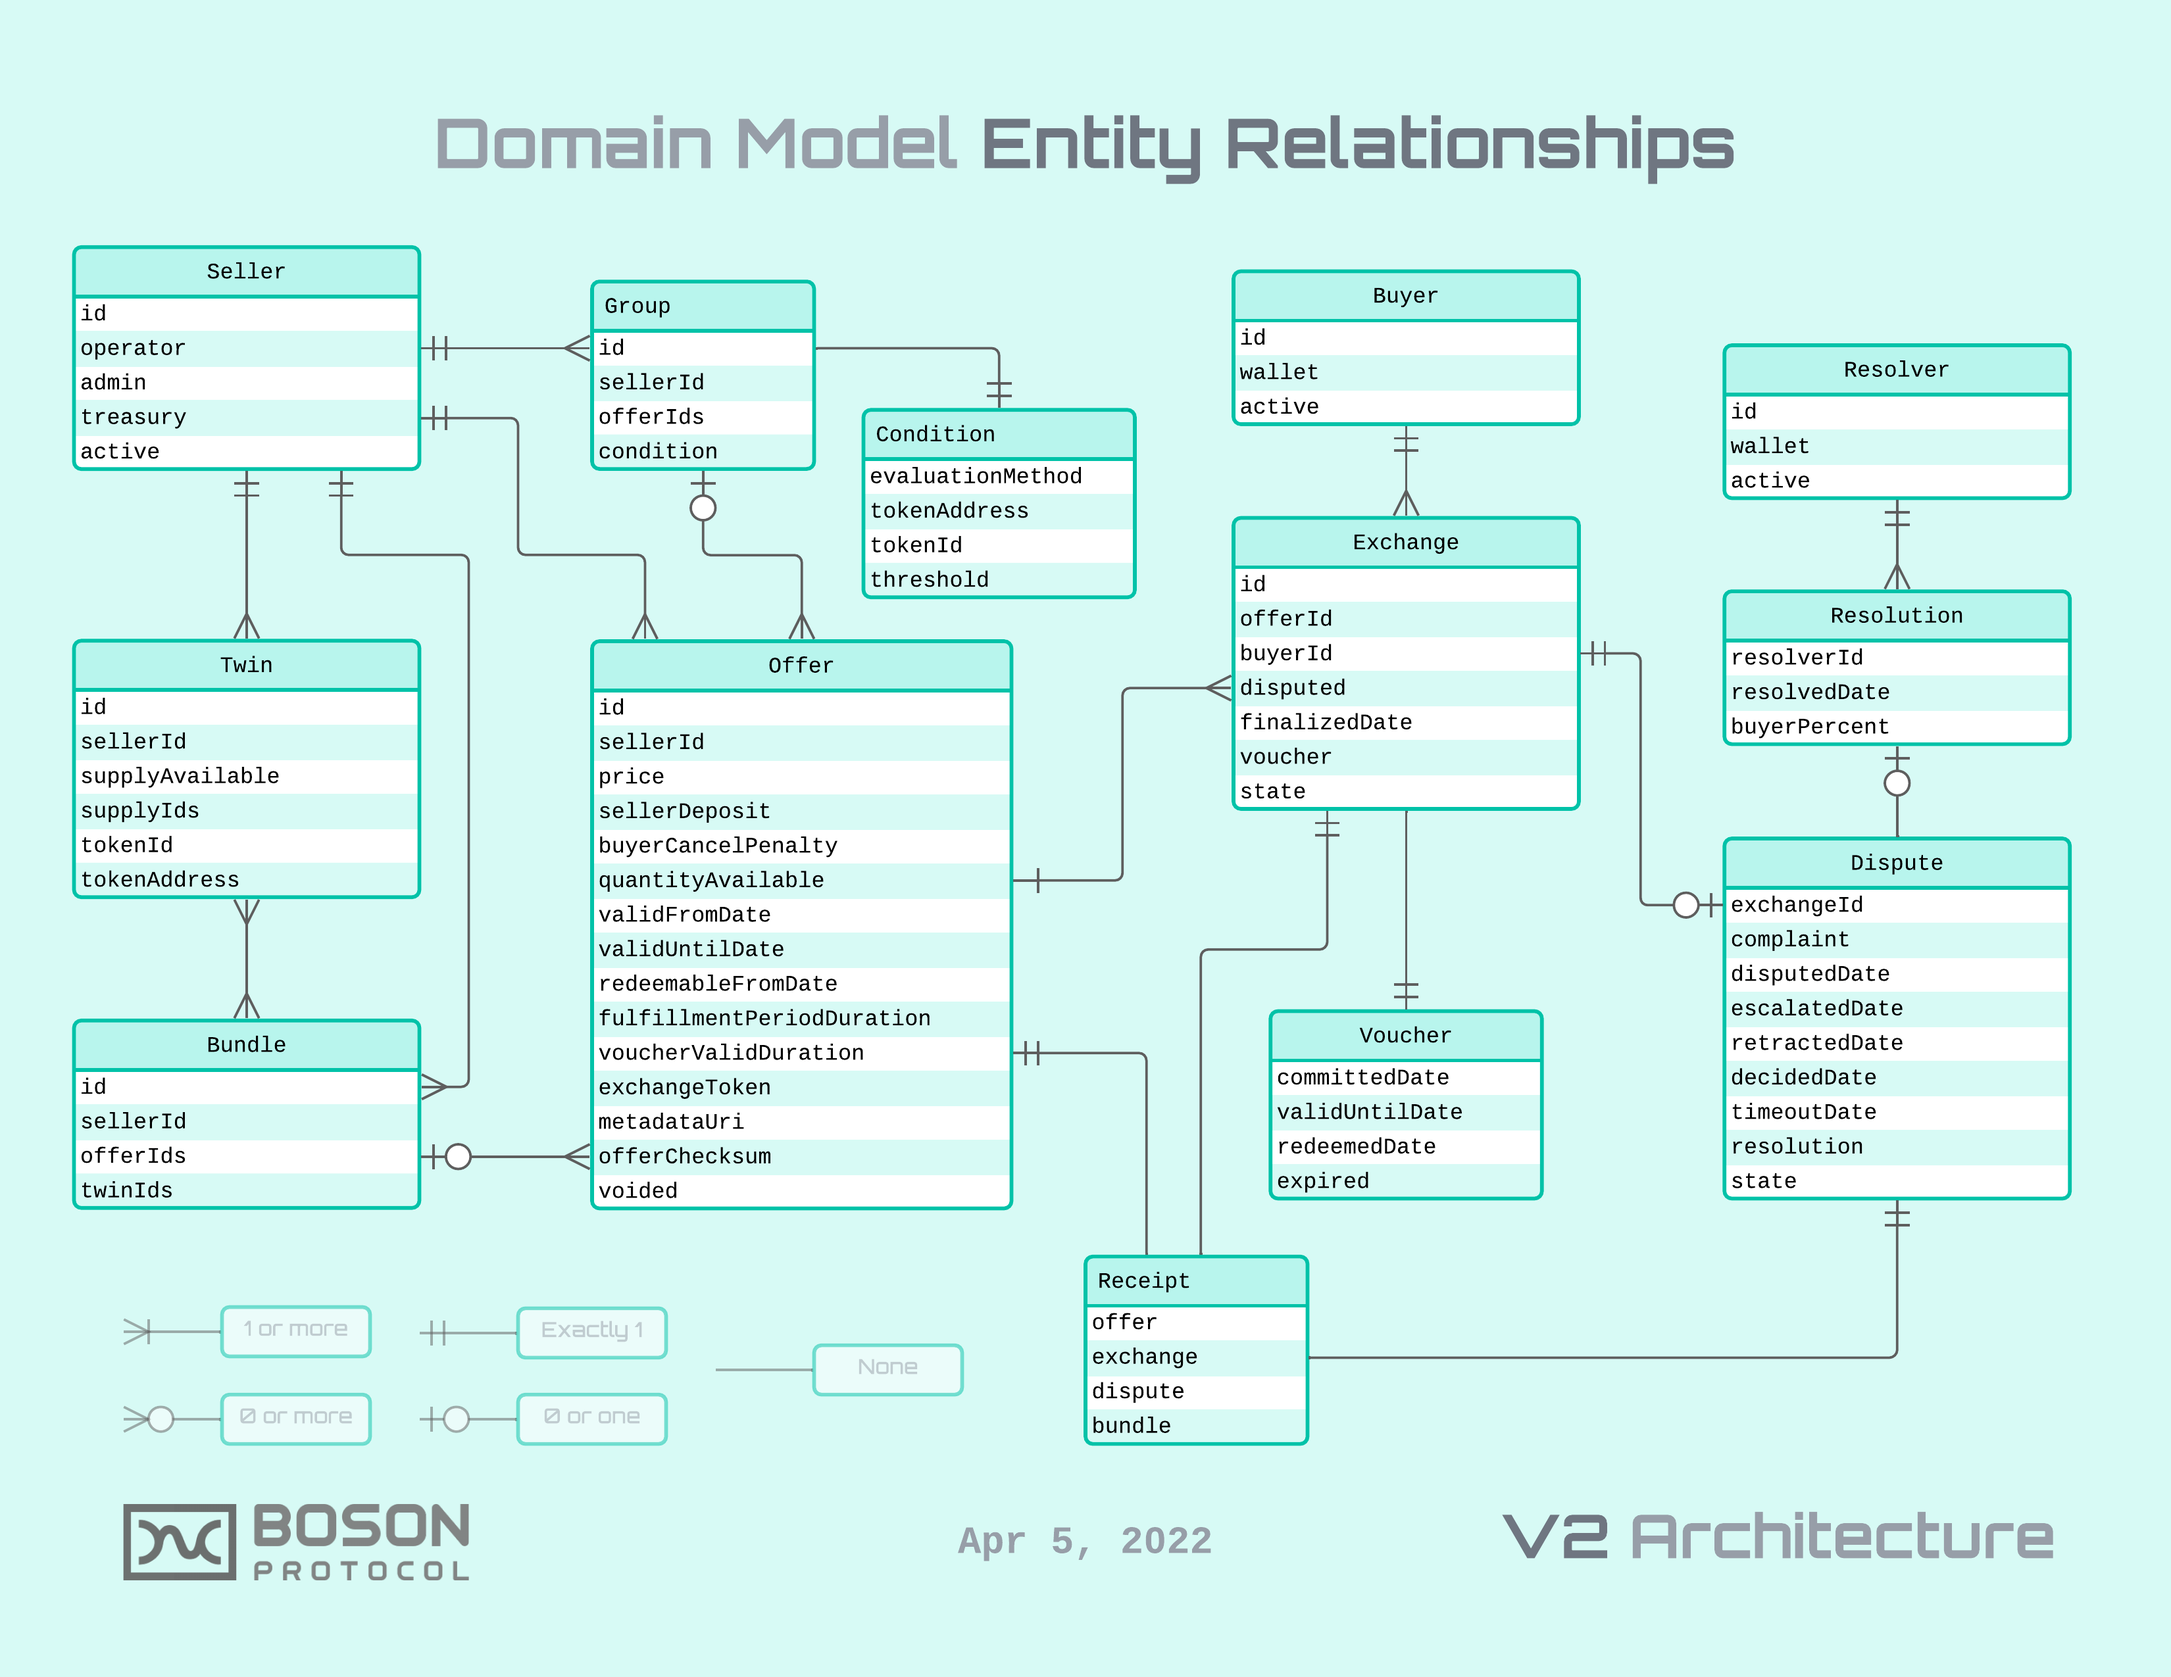
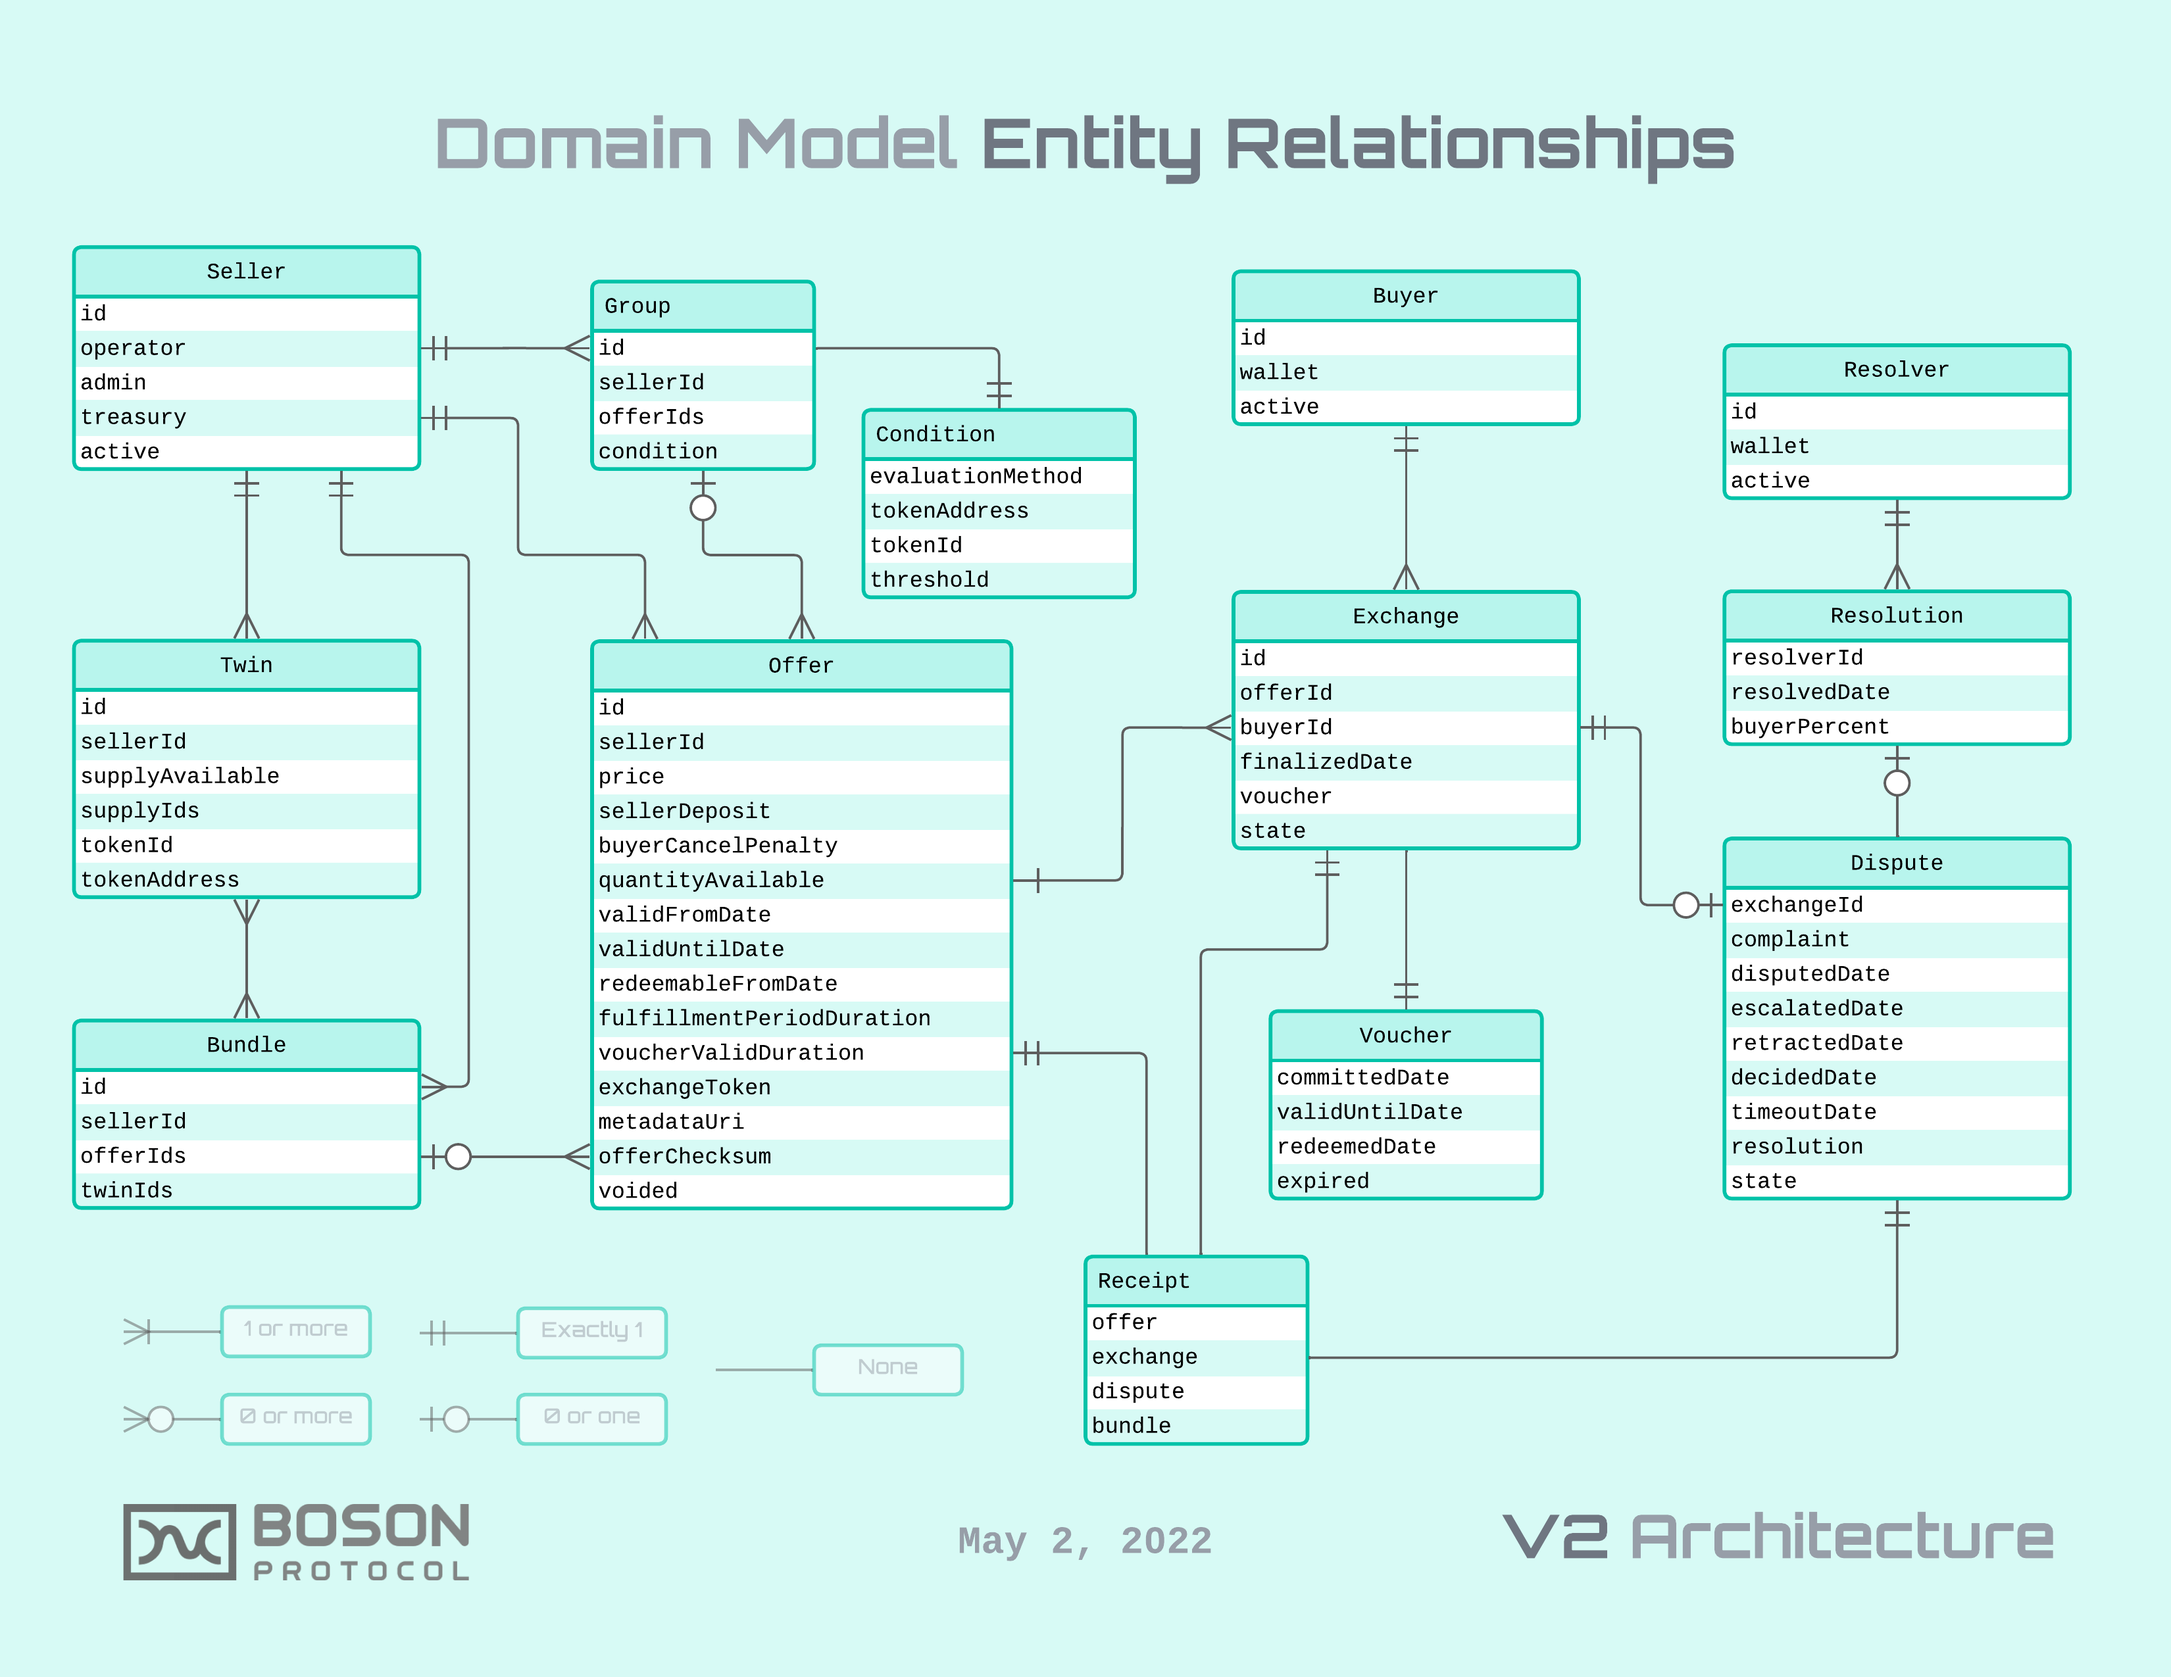
Refactor Exchange disputed flag to state
* Updated Boson_Protocol_V2_-_Domain_Model.png

* In BosonTypes.sol,
  - In ExchangeState,
    - added Disputed state
  - In Exchange,
    - removed disputed flag
  - In DisputeState,
    - Changed Disputed state to Resolving

* In DisputeState.js and DisputeTest.js,
  - Changed Disputed state to Resolving

* In Exchange.js,
  - removed disputed from
    - constructor
    - fromObject
    - fromStruct
    - toStruct
  - removed disputedIsValid method
  - in isValid,
    - removed call to disputedIsValid

* In ExchangeHandlerFacet.sol
  - in isExchangeFinalized,
    - changed exchange.disputed condition to check for exchange.state to equal ExchangeState.Disputed

* In ExchangeHandlerTest.js and ExchangeTest.js,
  - removed disputed from Exchange constructor

* In ExchangeState.js,
  - added Disputed enum to end of list

Changed region(s): [[0.5306, 0.2788, 0.7491, 0.5267], [0.437, 0.8984, 0.4994, 0.9294]]

diff --git a/test/domain/ExchangeTest.js b/test/domain/ExchangeTest.js
@@ -11,7 +11,7 @@ describe("Exchange", function () {
   let object, promoted, clone, dehydrated, rehydrated, key, value, struct;
   let id, offerId, buyerId;
   let voucher, voucherStruct, committedDate, validUntilDate, redeemedDate, expired;
-  let exchange, finalizedDate, disputed, state;
+  let exchange, finalizedDate, state;
 
   beforeEach(async function () {
     // Required voucher constructor params
@@ -27,20 +27,18 @@ describe("Exchange", function () {
     offerId = "2112";
     buyerId = "99";
     finalizedDate = "1661447000";
-    disputed = false;
     state = ExchangeState.Completed;
-    exchange = new Exchange(id, offerId, buyerId, finalizedDate, voucher, disputed, state);
+    exchange = new Exchange(id, offerId, buyerId, finalizedDate, voucher, state);
   });
 
   context("📋 Constructor", async function () {
     it("Should allow creation of valid, fully populated Exchange instance", async function () {
-      exchange = new Exchange(id, offerId, buyerId, finalizedDate, voucher, disputed, state);
+      exchange = new Exchange(id, offerId, buyerId, finalizedDate, voucher, state);
       expect(exchange.idIsValid()).is.true;
       expect(exchange.offerIdIsValid()).is.true;
       expect(exchange.buyerIdIsValid()).is.true;
       expect(exchange.finalizedDateIsValid()).is.true;
       expect(exchange.voucherIsValid()).is.true;
-      expect(exchange.disputedIsValid()).is.true;
       expect(exchange.stateIsValid()).is.true;
       expect(exchange.isValid()).is.true;
     });
@@ -49,7 +47,7 @@ describe("Exchange", function () {
   context("📋 Field validations", async function () {
     beforeEach(async function () {
       // Create a valid exchange, then set fields in tests directly
-      exchange = new Exchange(id, offerId, buyerId, finalizedDate, voucher, disputed, state);
+      exchange = new Exchange(id, offerId, buyerId, finalizedDate, voucher, state);
       expect(exchange.isValid()).is.true;
     });
 
@@ -134,38 +132,6 @@ describe("Exchange", function () {
       expect(exchange.isValid()).is.true;
     });
 
-    it("Always present, disputed must be a boolean", async function () {
-      // Invalid field value
-      exchange.disputed = 12;
-      expect(exchange.disputedIsValid()).is.false;
-      expect(exchange.isValid()).is.false;
-
-      // Invalid field value
-      exchange.disputed = "zedzdeadbaby";
-      expect(exchange.disputedIsValid()).is.false;
-      expect(exchange.isValid()).is.false;
-
-      // Invalid field value
-      exchange.disputed = null;
-      expect(exchange.disputedIsValid()).is.false;
-      expect(exchange.isValid()).is.false;
-
-      // Invalid field value
-      exchange.disputed = undefined;
-      expect(exchange.disputedIsValid()).is.false;
-      expect(exchange.isValid()).is.false;
-
-      // Valid field value
-      exchange.disputed = false;
-      expect(exchange.disputedIsValid()).is.true;
-      expect(exchange.isValid()).is.true;
-
-      // Valid field value
-      exchange.disputed = true;
-      expect(exchange.disputedIsValid()).is.true;
-      expect(exchange.isValid()).is.true;
-    });
-
     it("If present, voucher must be a valid Voucher instance", async function () {
       // Invalid field value
       exchange.voucher = 12;
@@ -234,7 +200,7 @@ describe("Exchange", function () {
   context("📋 Utility functions", async function () {
     beforeEach(async function () {
       // Create a valid exchange, then set fields in tests directly
-      exchange = new Exchange(id, offerId, buyerId, finalizedDate, voucher, disputed, state);
+      exchange = new Exchange(id, offerId, buyerId, finalizedDate, voucher, state);
       expect(exchange.isValid()).is.true;
 
       // Get plain object
@@ -244,12 +210,11 @@ describe("Exchange", function () {
         buyerId,
         finalizedDate,
         voucher,
-        disputed,
         state,
       };
 
       // Struct representation
-      struct = [id, offerId, buyerId, finalizedDate, voucherStruct, disputed, state];
+      struct = [id, offerId, buyerId, finalizedDate, voucherStruct, state];
     });
 
     context("👉 Static", async function () {

diff --git a/scripts/domain/Exchange.js b/scripts/domain/Exchange.js
@@ -15,18 +15,16 @@ class Exchange {
             uint256 buyerId;
             uint256 finalizedDate;
             Voucher voucher;
-            bool disputed;
             ExchangeState state;
       }
    */
 
-  constructor(id, offerId, buyerId, finalizedDate, voucher, disputed, state) {
+  constructor(id, offerId, buyerId, finalizedDate, voucher, state) {
     this.id = id;
     this.offerId = offerId;
     this.buyerId = buyerId;
     this.finalizedDate = finalizedDate;
     this.voucher = voucher;
-    this.disputed = disputed;
     this.state = state;
   }
 
@@ -36,9 +34,9 @@ class Exchange {
    * @returns {Exchange}
    */
   static fromObject(o) {
-    const { id, offerId, buyerId, finalizedDate, disputed, state } = o;
+    const { id, offerId, buyerId, finalizedDate, state } = o;
     const voucher = Voucher.fromObject(o.voucher);
-    return new Exchange(id, offerId, buyerId, finalizedDate, voucher, disputed, state);
+    return new Exchange(id, offerId, buyerId, finalizedDate, voucher, state);
   }
 
   /**
@@ -47,10 +45,10 @@ class Exchange {
    * @returns {*}
    */
   static fromStruct(struct) {
-    let id, offerId, buyerId, finalizedDate, disputed, voucher, state;
+    let id, offerId, buyerId, finalizedDate, voucher, state;
 
     // destructure struct
-    [id, offerId, buyerId, finalizedDate, voucher, disputed, state] = struct;
+    [id, offerId, buyerId, finalizedDate, voucher, state] = struct;
 
     return Exchange.fromObject({
       id: id.toString(),
@@ -58,7 +56,6 @@ class Exchange {
       buyerId: buyerId.toString(),
       finalizedDate: finalizedDate.toString(),
       voucher: Voucher.fromStruct(voucher),
-      disputed,
       state,
     });
   }
@@ -84,15 +81,7 @@ class Exchange {
    * @returns {string}
    */
   toStruct() {
-    return [
-      this.id,
-      this.offerId,
-      this.buyerId,
-      this.finalizedDate,
-      this.voucher.toStruct(),
-      this.disputed,
-      this.state,
-    ];
+    return [this.id, this.offerId, this.buyerId, this.finalizedDate, this.voucher.toStruct(), this.state];
   }
 
   /**
@@ -163,19 +152,6 @@ class Exchange {
   }
 
   /**
-   * Is this Exchange instance's disputed field valid?
-   * @returns {boolean}
-   */
-  disputedIsValid() {
-    let valid = false;
-    let { disputed } = this;
-    try {
-      valid = typeof disputed === "boolean";
-    } catch (e) {}
-    return valid;
-  }
-
-  /**
    * Is this Exchange instance's voucher field valid?
    * If present, must be a valid Voucher instance
    * @returns {boolean}
@@ -213,7 +189,6 @@ class Exchange {
       this.buyerIdIsValid() &&
       this.finalizedDateIsValid() &&
       this.voucherIsValid() &&
-      this.disputedIsValid() &&
       this.stateIsValid()
     );
   }

diff --git a/test/domain/DisputeTest.js b/test/domain/DisputeTest.js
@@ -14,7 +14,7 @@ describe("Dispute", function () {
     // Required constructor params
     exchangeId = "2112";
     complaint = "complain text";
-    state = DisputeState.Disputed;
+    state = DisputeState.Resolving;
   });
 
   context("📋 Constructor", async function () {
@@ -98,7 +98,7 @@ describe("Dispute", function () {
       expect(dispute.isValid()).is.false;
 
       // Valid field value
-      dispute.state = DisputeState.Disputed;
+      dispute.state = DisputeState.Resolving;
       expect(dispute.stateIsValid()).is.true;
       expect(dispute.isValid()).is.true;
     });

diff --git a/test/protocol/ExchangeHandlerTest.js b/test/protocol/ExchangeHandlerTest.js
@@ -194,7 +194,7 @@ describe("IBosonExchangeHandler", function () {
       finalizedDate = "0";
       disputed = false;
       state = ExchangeState.Committed;
-      exchange = new Exchange(id, offerId, buyerId, finalizedDate, voucher, disputed, state);
+      exchange = new Exchange(id, offerId, buyerId, finalizedDate, voucher, state);
       exchangeStruct = [id, offerId, buyerId, finalizedDate, voucherStruct, disputed, state];
     });
 

diff --git a/scripts/domain/ExchangeState.js b/scripts/domain/ExchangeState.js
@@ -8,6 +8,7 @@ ExchangeState.Revoked = 1;
 ExchangeState.Canceled = 2;
 ExchangeState.Redeemed = 3;
 ExchangeState.Completed = 4;
+ExchangeState.Disputed = 5;
 
 ExchangeState.Modes = [
   ExchangeState.Committed,
@@ -15,6 +16,7 @@ ExchangeState.Modes = [
   ExchangeState.Canceled,
   ExchangeState.Redeemed,
   ExchangeState.Completed,
+  ExchangeState.Disputed,
 ];
 
 // Export

diff --git a/scripts/domain/DisputeState.js b/scripts/domain/DisputeState.js
@@ -3,14 +3,14 @@
  */
 class DisputeState {}
 
-DisputeState.Disputed = 0;
+DisputeState.Resolving = 0;
 DisputeState.Retracted = 1;
 DisputeState.Resolved = 2;
 DisputeState.Escalated = 3;
 DisputeState.Decided = 4;
 
 DisputeState.Modes = [
-  DisputeState.Disputed,
+  DisputeState.Resolving,
   DisputeState.Retracted,
   DisputeState.Resolved,
   DisputeState.Escalated,
